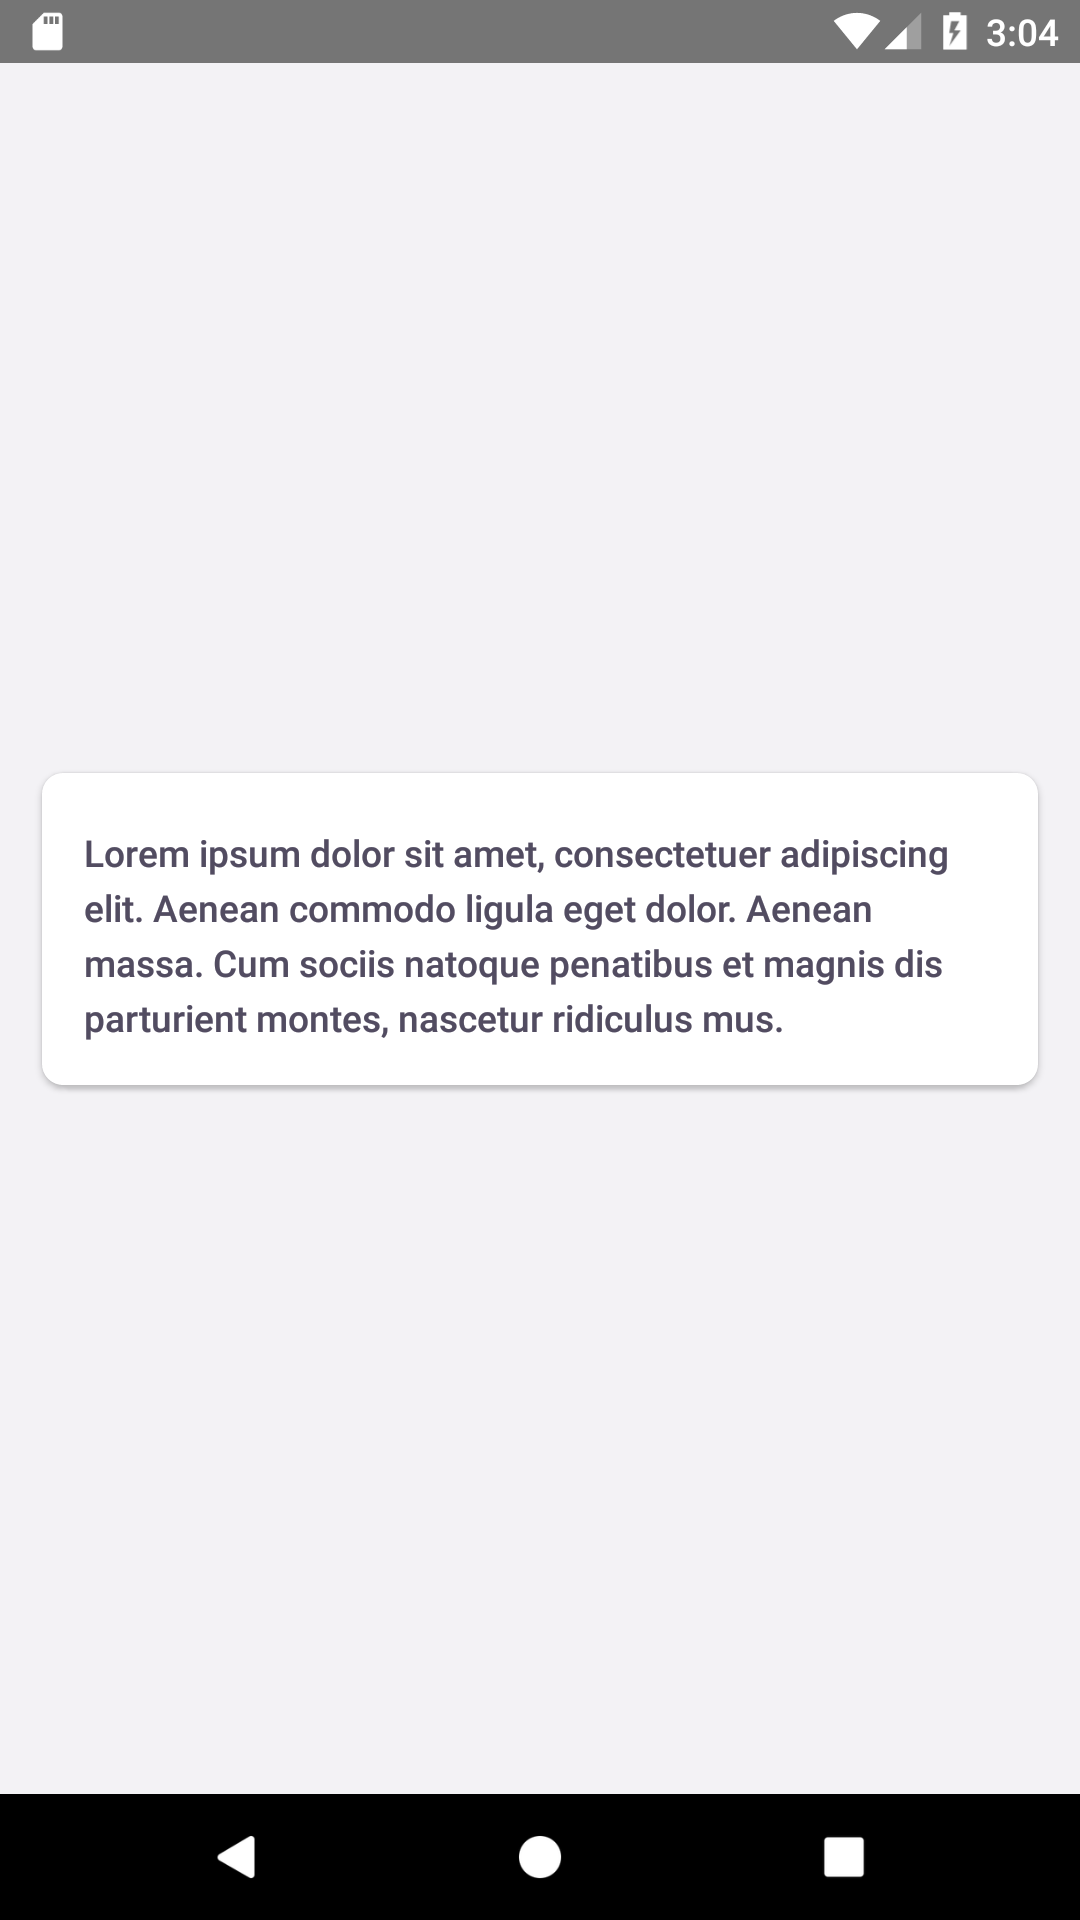
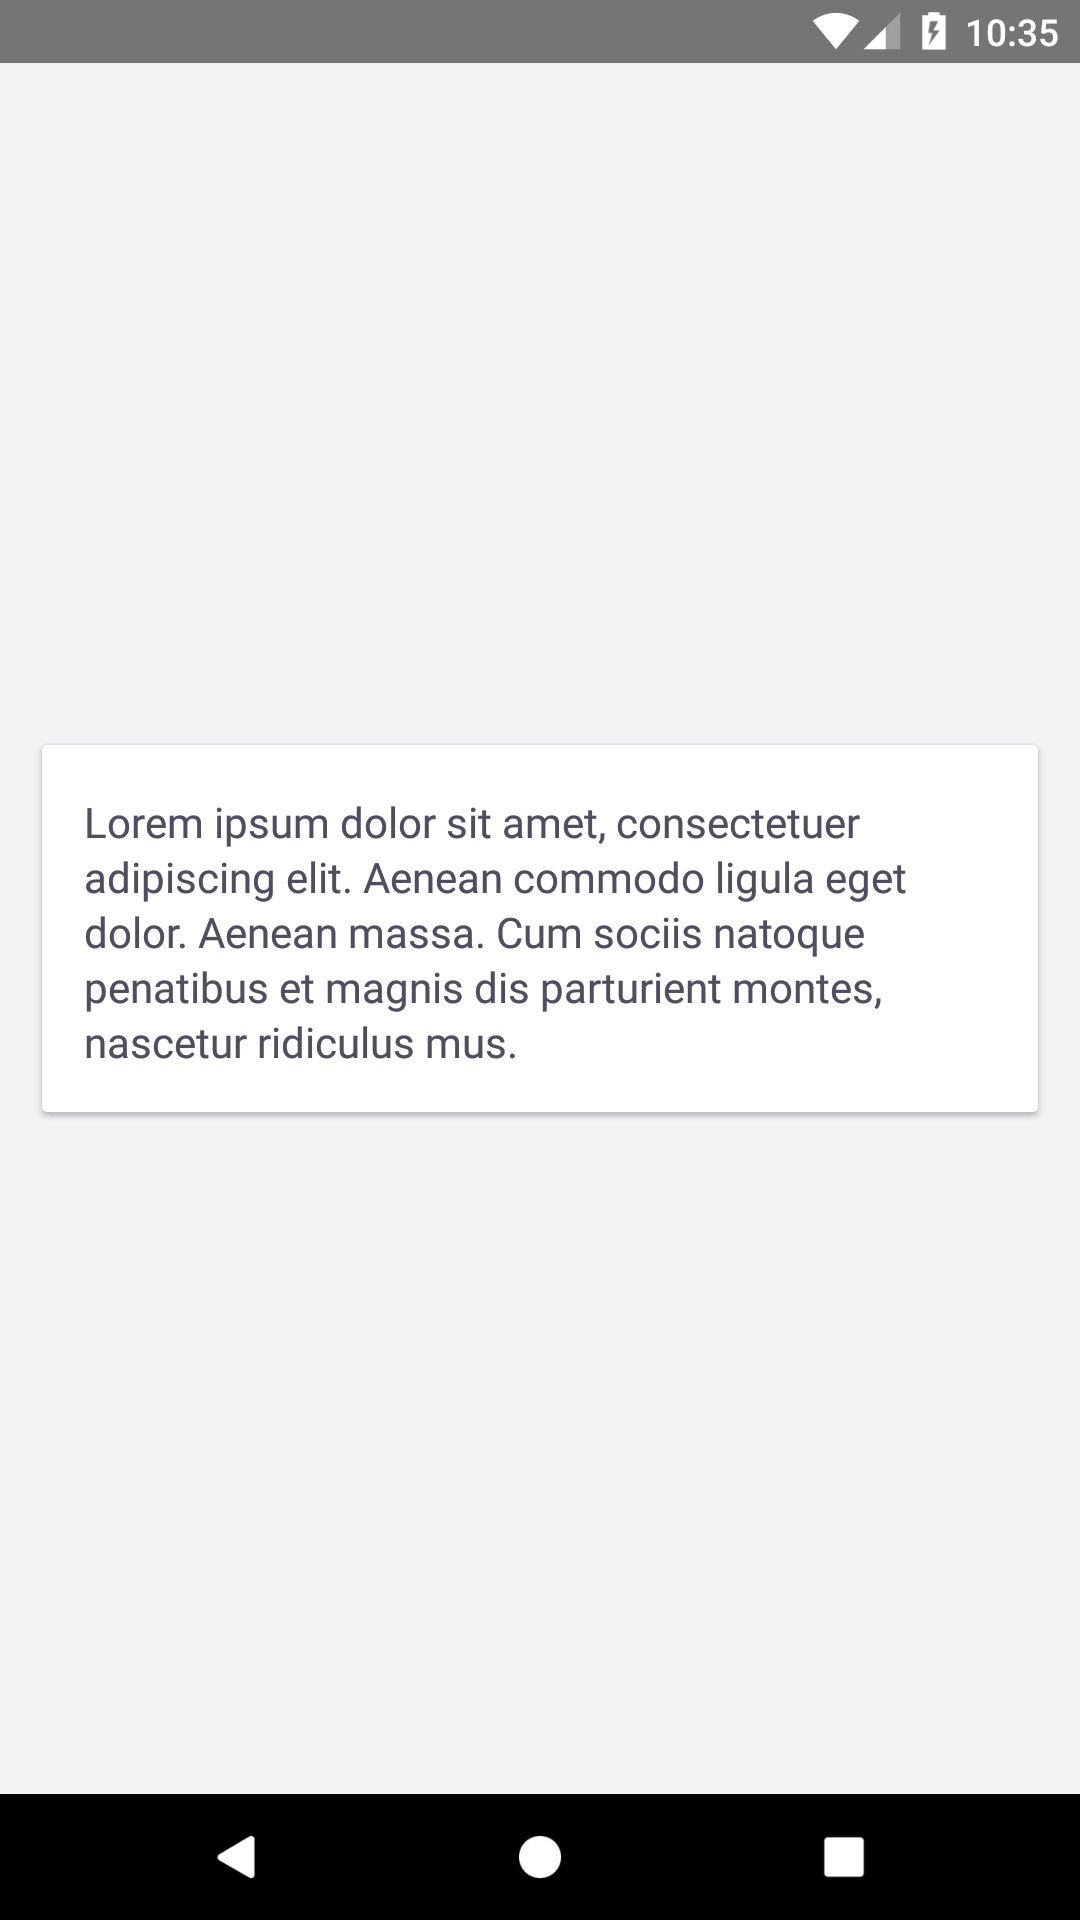
[BPK-1056] Update native screenshots

Changed region(s): [[0.0306, 0.4062, 0.9472, 0.5938], [0.7639, 0.0, 0.9778, 0.0312], [0.0306, 0.0, 0.0611, 0.0312]]

diff --git a/packages/bpk-docs/src/pages/NativeTextPage/NativeTextPage.js b/packages/bpk-docs/src/pages/NativeTextPage/NativeTextPage.js
@@ -21,6 +21,8 @@ import BpkLink from 'bpk-component-link';
 import readme from 'react-native-bpk-component-text/readme.md';
 import iosScreenshot from 'react-native-bpk-component-text/screenshots/ios/text-styles.png';
 import androidScreenshot from 'react-native-bpk-component-text/screenshots/android/text-styles.png';
+import iosScreenshotBold from 'react-native-bpk-component-text/screenshots/ios/text-bold.png';
+import androidScreenshotBold from 'react-native-bpk-component-text/screenshots/android/text-bold.png';
 
 import Paragraph from './../../components/Paragraph';
 import DocsPageBuilder from './../../components/DocsPageBuilder';
@@ -29,8 +31,8 @@ const reactNativeUrl = 'https://facebook.github.io/react-native/docs/text.html';
 
 const components = [
   {
-    id: 'text-styles',
-    title: 'Text styles',
+    id: 'default',
+    title: 'Default',
     screenshots: [
       {
         title: 'iOS',
@@ -45,6 +47,28 @@ const components = [
         width: 1080,
         height: 1920,
         src: `/${androidScreenshot}`,
+        altText: 'Android Default Text Component',
+        subText: '(Google Pixel Emulator)',
+      },
+    ],
+  },
+  {
+    id: 'emphasize',
+    title: 'Emphasize',
+    screenshots: [
+      {
+        title: 'iOS',
+        width: 750,
+        height: 1334,
+        src: `/${iosScreenshotBold}`,
+        altText: 'iOS Default Text Component',
+        subText: '(iPhone 8 Simulator)',
+      },
+      {
+        title: 'Android',
+        width: 1080,
+        height: 1920,
+        src: `/${androidScreenshotBold}`,
         altText: 'Android Default Text Component',
         subText: '(Google Pixel Emulator)',
       },

diff --git a/packages/bpk-docs/src/pages/NativeCardsPage/NativeCardsPage.js b/packages/bpk-docs/src/pages/NativeCardsPage/NativeCardsPage.js
@@ -21,8 +21,8 @@ import readme from 'react-native-bpk-component-card/readme.md';
 
 import iosScreenshotDefault from 'react-native-bpk-component-card/screenshots/ios/default.png';
 import iosScreenshotWithoutPadding from 'react-native-bpk-component-card/screenshots/ios/without-padding.png';
-import androidEmpty from './../../static/android_empty.svg';
-
+import androidScreenshotDefault from 'react-native-bpk-component-card/screenshots/android/default.png';
+import androidScreenshotWithoutPadding from 'react-native-bpk-component-card/screenshots/android/without-padding.png';
 
 import Paragraph from './../../components/Paragraph';
 import DocsPageBuilder from './../../components/DocsPageBuilder';
@@ -45,7 +45,7 @@ const components = [
         title: 'Android',
         width: 1080,
         height: 1920,
-        src: `/${androidEmpty}`,
+        src: `/${androidScreenshotDefault}`,
         altText: 'Android Default Card Component',
         subText: '(Google Pixel Emulator)',
       },
@@ -68,7 +68,7 @@ const components = [
         title: 'Android',
         width: 1080,
         height: 1920,
-        src: `/${androidEmpty}`,
+        src: `/${androidScreenshotWithoutPadding}`,
         altText: 'Android Card Without Padding Component',
         subText: '(Google Pixel Emulator)',
       },
